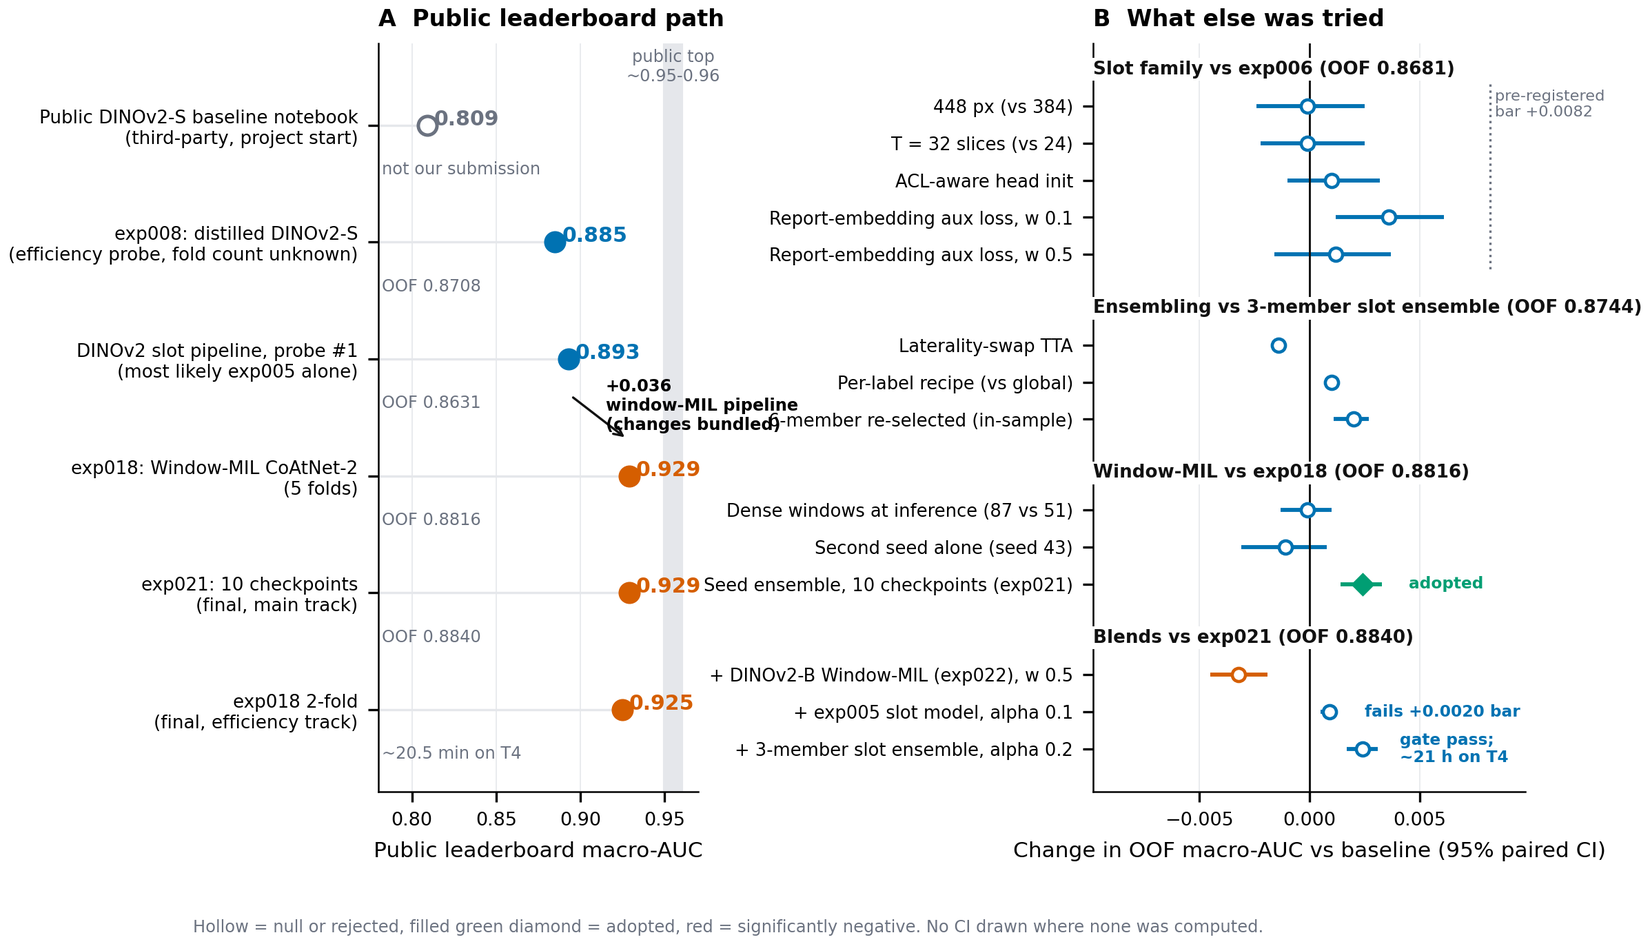
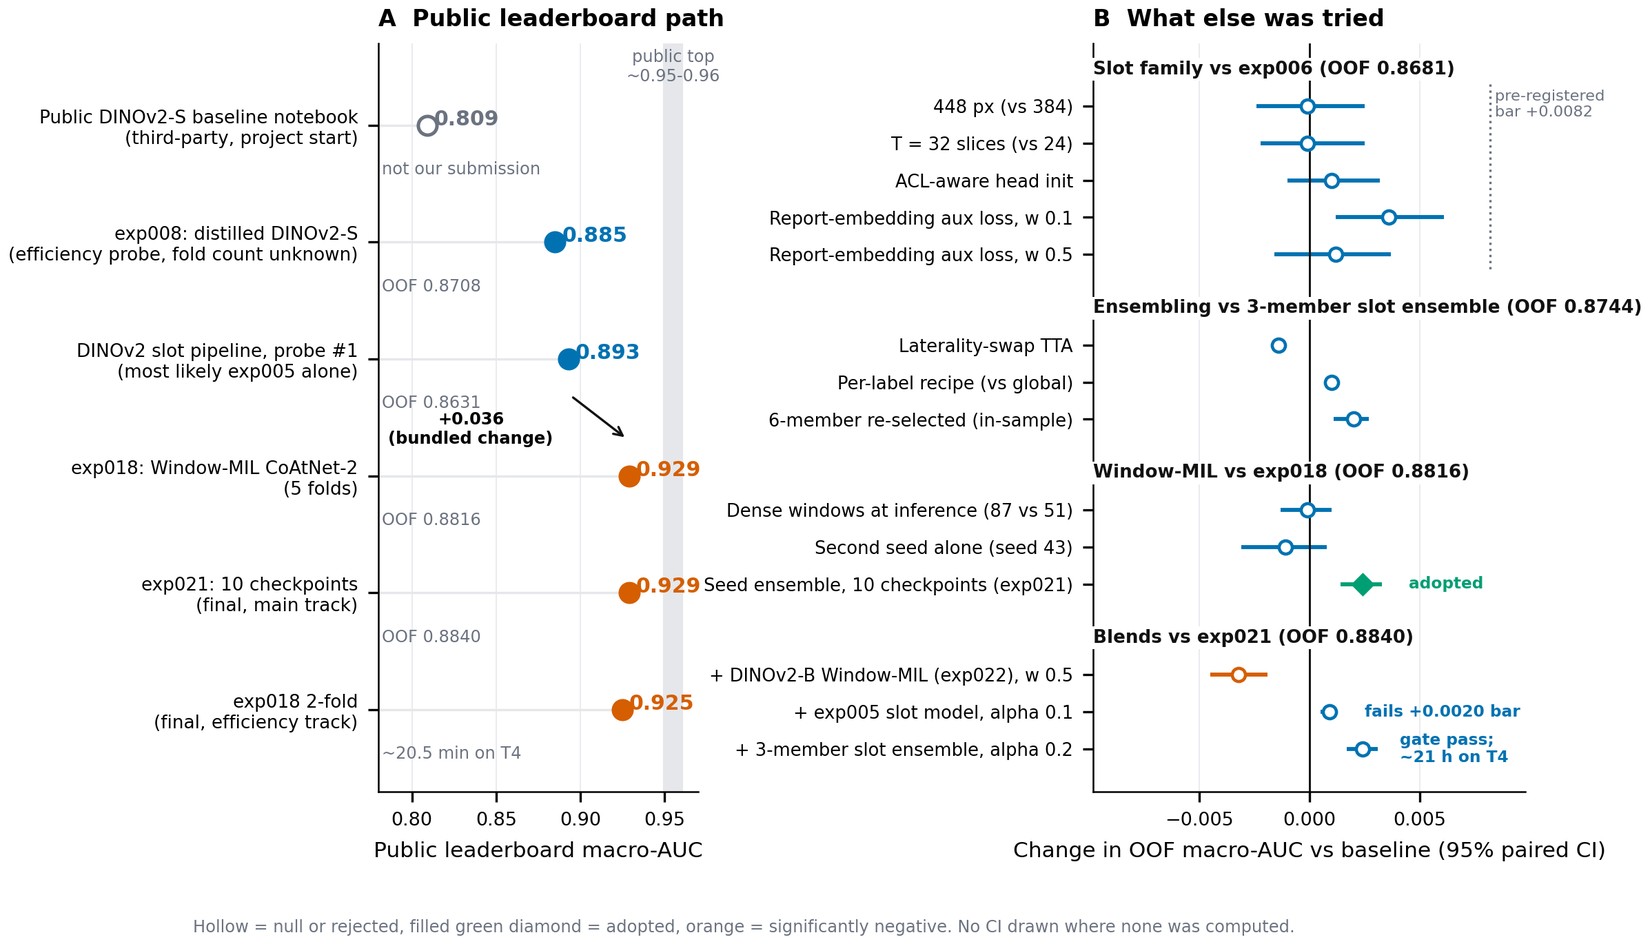
Pre-Oct-15 review fixes: ablation figure annotation/footer, Qiu et al. 2024 reference (Crossref-checked), mine-vs-borrowed on slide 3, 3-row slide 5 + ROC backup slide + milestones line, notes re-timed to 525 words, extraction-mismatch limitation

Changed region(s): [[0.4327, 0.981, 0.7728, 1.0], [0.3709, 0.3985, 0.4946, 0.4599], [0.2473, 0.4292, 0.34, 0.4905]]

diff --git a/docs/report/main.tex b/docs/report/main.tex
@@ -84,8 +84,10 @@ CoAtNet~\cite{dai2021coatnet} via timm~\cite{wightman2019timm}.}
 \item \nt{The window-MIL design follows a public Kaggle kernel~\cite{dread2026kernel}; say so plainly (re-implemented, own
 labels and folds, no third-party weights or labels).}
 \item \nt{LLM tooling: Qwen2.5~\cite{qwen2025}, Llama~3~\cite{llama3}, vLLM~\cite{kwon2023vllm}.}
-\item \todo{add the external published benchmark noted in EXPERIMENTS.md 2026-09-17 (``Qiu et al. 2024, Nat Commun''):
-its title and DOI are not recorded in the repo.}
+\item \nt{Closest prior work: Qiu et al.~\cite{qiu2024coplane} (Nature Communications 2024) learn co-plane attention across
+MRI sequences for the same twelve knee abnormalities. State the difference plainly: their supervision and data versus
+this challenge's 58 image-review labels plus report-derived labels; compare per-finding AUCs only as context, not as a
+like-for-like benchmark (the EXPERIMENTS.md 2026-09-17 entry has the per-label comparison that was made).}
 \end{itemize}
 \end{notes}
 
@@ -353,6 +355,11 @@ silently wrote label priors; tests must assert on prediction content, not row co
 by a clinician; the 0.893 attribution to exp005 is an inference.}
 \item \nt{Label-engine calibration used the same 58 studies that report gold-58 AUC (leave-one-out for the labeler; the image
 models never trained on them), so the labeler's own agreement numbers are optimistic.}
+\item \nt{Reproduction check, one sentence: re-running the 10 exp021 checkpoints through the deployed inference path on the
+gold-58 studies reproduces the stored predictions to within 0.005 for 56 of 58 studies, but two studies differ by up to
+0.21 (MCL, ACL). The suspected cause is a difference between the side-resolution rule used in training (validated report
+side) and at deployment (DICOM tag, then geometry); this is unconfirmed. The effect on macro-AUC is negligible (0.9104
+vs 0.9111).}  % SRC: scripts/fig_attention.py sanity line; docs/report/NUMBERS.md
 \item \nt{No external data; single-person project; Kaggle hardware only for inference.}
 \end{itemize}
 \end{notes}

diff --git a/scripts/fig_ablation.py b/scripts/fig_ablation.py
@@ -91,8 +91,9 @@ def panel_a(ax) -> None:
     ax.set_title("A  Public leaderboard path", loc="left", fontweight="bold")
     ax.annotate("", xy=(0.929, ys[3] + 0.3), xytext=(0.893, ys[2] - 0.3),
                 arrowprops=dict(arrowstyle="->", color=fc.C["black"], lw=0.8))
-    ax.text(0.915, (ys[2] + ys[3]) / 2 + 0.1, "+0.036\nwindow-MIL pipeline\n(changes bundled)", fontsize=5.8,
-            va="center", ha="left", fontweight="bold")
+    # Kept inside panel A's axes, to the LEFT of the arrow (the old right-hand placement ran into panel B's labels).
+    ax.text(0.835, (ys[2] + ys[3]) / 2 - 0.25, "+0.036\n(bundled change)", fontsize=5.8, va="center", ha="center",
+            fontweight="bold")
     ax.grid(axis="x", color=fc.C["light"], lw=0.4)
     ax.set_axisbelow(True)
 
@@ -135,7 +136,7 @@ def main() -> None:
     gs = fig.add_gridspec(1, 2, width_ratios=[1.0, 1.35], wspace=1.05)
     panel_a(fig.add_subplot(gs[0]))
     panel_b(fig.add_subplot(gs[1]))
-    fig.text(0.0, -0.035, "Hollow = null or rejected, filled green diamond = adopted, red = significantly negative. "
+    fig.text(0.0, -0.035, "Hollow = null or rejected, filled green diamond = adopted, orange = significantly negative. "
              "No CI drawn where none was computed.",
              fontsize=5.8, color=fc.C["grey"], ha="left")
     fc.save(fig, "ablation_path_and_nulls")

diff --git a/docs/CV_PROGRESS_PRESENTATION.md b/docs/CV_PROGRESS_PRESENTATION.md
@@ -1,10 +1,11 @@
 # CV course progress presentation — Oct 15, 5 minutes
 
-Project: RSNA Knee Abnormality Detection (Kaggle 2026): 12 findings from knee MRI, scored by macro-AUC.
-**Five slides, ~4:35 of speaking** (speaker notes below total ~620 words; at 135 words/min that is 4.6 min,
-leaving ~25 s of slack). Every number is a logged measurement from `docs/EXPERIMENTS.md`; the section for each
+Project: RSNA Knee Abnormality Detection (Kaggle 2026): 12 findings from knee MRI, scored by macro-AUC. Solo project.
+**Five slides plus one backup, ~3:55 of speaking** (speaker notes total 525 words: 3.9 min at 135 words/min,
+4.2 min at 125 wpm, so under 4:30 either way). Every number is a logged measurement from `docs/EXPERIMENTS.md`; the section for each
 is in the "Number sources" table at the end. Figures are in `docs/figures/` (PNG for slides, PDF for the report).
-Rewritten 2026-10-10 around the final figures and the corrected 0.893 attribution.
+Revised 2026-10-11 after review: explicit mine-vs-borrowed line, lighter slide 5, ROC grid moved to a backup slide,
+closing milestones line, notes re-timed.
 
 Status when presenting: modeling is closed and the freeze is Oct 15. **One model family (exp018's CoAtNet-2
 Window-MIL) supplies both final picks:** accuracy = exp021, 10 checkpoints (public 0.929); efficiency = exp018 on
@@ -25,13 +26,14 @@ Window-MIL) supplies both final picks:** accuracy = exp021, 10 checkpoints (publ
 
 | # | Slide | Time | Figure |
 |---|---|---|---|
-| 1 | The problem: strong images, weak labels, and the label engine | 0:00-0:50 | none (build a 3-bar graphic: 4,407 / 58 / 0) |
-| 2 | The path and the plateau | 0:50-1:45 | `ablation_path_and_nulls.png` |
-| 3 | Diagnosis and the formulation change | 1:45-2:45 | `formulation_before_after.png` |
-| 4 | What the model looks at | 2:45-3:35 | `attention_windows_gold58_slide.png` |
-| 5 | Results and lessons | 3:35-4:35 | table + `roc_gold58_exp018_exp021.png` |
+| 1 | The problem: strong images, weak labels, and the label engine | 0:00-0:45 | none (build a 3-bar graphic: 4,407 / 58 / 0) |
+| 2 | The path and the plateau | 0:45-1:30 | `ablation_path_and_nulls.png` |
+| 3 | Diagnosis, the formulation change, and what is mine vs borrowed | 1:30-2:25 | `formulation_before_after.png` |
+| 4 | What the model looks at | 2:25-3:10 | `attention_windows_gold58_slide.png` |
+| 5 | Results, lessons, and what is next | 3:10-4:05 | 3-row table (no figure) |
+| B1 | Backup (not presented): per-label ROC | on request | `roc_gold58_exp018_exp021.png` |
 
-## Slide 1 — The problem: strong images, weak labels (0:00-0:50)
+## Slide 1 — The problem: strong images, weak labels (0:00-0:45)
 
 **On the slide**
 - Input: a knee MRI study = 3-14 series (sagittal / coronal / axial, fat-suppressed or not). Output: 12
@@ -42,15 +44,15 @@ Window-MIL) supplies both final picks:** accuracy = exp021, 10 checkpoints (publ
   thresholds -> calibrated on the 58 (leave-one-out) -> one noisy-student round -> `v3` labels. A second round
   regressed, so I stopped.
 
-**Say (~115 words)**
-"I predict twelve knee-MRI findings, scored by macro AUC. The catch is the labels. Of 4,407 training studies, only
-58 have expert image-review labels. Every study has a radiology report, in a dozen languages, but there are no
-reports at test time, and the reports agree with the experts only about 82% of the time, because they over-call
-mild disease. So step one was a label engine. Two open language models read each report against a rubric of the
-experts' thresholds. I calibrate on the 58 real labels, let the image model clean the labels once, and stop there,
-because a second round made things worse. Better labels alone were worth about plus 0.014 AUC."
+**Say (~110 words)**
+"I predict twelve knee-MRI findings, scored by macro AUC. The catch is the labels: of 4,407 training studies, only
+58 have expert image-review labels. Every study has a radiology report, but there are none at test time, and the
+reports agree with the experts only about 82% of the time, because they over-call mild disease. So I built a label
+engine. Two open language models read each report against a rubric of the experts' thresholds. I calibrate on the
+58 real labels, let the image model clean the labels once, and stop there, because a second round made things
+worse. Better labels alone were worth about plus 0.014 AUC."
 
-## Slide 2 — The path and the plateau (0:50-1:45)
+## Slide 2 — The path and the plateau (0:45-1:30)
 
 **Figure:** `docs/figures/ablation_path_and_nulls.png` (panel A the leaderboard path, panel B the tested changes).
 
@@ -61,16 +63,14 @@ because a second round made things worse. Better labels alone were worth about p
   report-text auxiliary loss all sit inside noise (or below the pre-registered +0.0082 bar). Hollow = null.
 - Early gains that did work (OOF): ViT-S -> ViT-B +0.005, v3 labels +0.014, ensembling +0.006.
 
-**Say (~120 words)**
-"My first image model summarizes each series into one token and then mixes six slots. It scored 0.893 on the
-public leaderboard. One correction: that notebook picks its configuration from a time budget, and on Kaggle's T4
-GPUs the three-model ensemble would take about 21 hours, so it almost certainly ran just its smallest model. The
-0.893 is most likely one ViT-S, though I can't confirm that. Then I tried every lever I had: higher resolution,
-more slices, a better head, a report-text loss, bigger ensembles. I set the bar in advance and used the same folds
-and bootstrap noise. Nothing cleared it. From that I concluded the labels were the ceiling. That conclusion
-turned out to be wrong."
+**Say (~95 words)**
+"My first image model squeezes each series into one token, then mixes six slots. Its public score was 0.893. One
+correction: that notebook picks its configuration from a time budget, and on Kaggle's GPUs the three-model ensemble
+would need about 21 hours, so it almost certainly ran only its smallest model, one ViT-S. I can't confirm that.
+Then I tried every lever I had: resolution, more slices, a better head, a report-text loss, bigger ensembles, each
+against a bar I set in advance. Nothing cleared it. So I concluded the labels were the ceiling. That was wrong."
 
-## Slide 3 — Diagnosis, and the formulation change (1:45-2:45)
+## Slide 3 — Diagnosis, the formulation change, and what is mine vs borrowed (1:30-2:25)
 
 **Figure:** `docs/figures/formulation_before_after.png`.
 
@@ -81,19 +81,21 @@ turned out to be wrong."
   medial-lateral, and 34% of studies (1,491) had no side normalisation. A geometric rule resolved 99.4% of them
   (99% agreement with validated sides).
 - exp018: 140 mm FOV -> windows of 3 adjacent slices -> fully fine-tuned CoAtNet-2 -> **per-finding attention
-  over all windows**. My labels, my folds, a pre-registered kill rule. **Public 0.929.**
+  over all windows**. A pre-registered kill rule. **Public 0.929.**
+- **What's mine vs borrowed (boxed line on the slide):** *Borrowed:* the window-MIL design, from a public Kaggle
+  kernel (cited on the slide). *Mine:* the label engine, the labels, the folds, the laterality fix, the
+  re-implementation, and all the training. *No third-party weights or labels.*
 - Caveat on the slide: four things changed together; none is isolated.
 
-**Say (~125 words)**
-"Instead of another ablation, I looked outside my own pipeline. The DINOv2 family was stuck at about 0.89
-everywhere, including in a public 20-model ensemble, and one very different design wasn't. Mine compresses every
-series to a single vector before any finding is considered. The other keeps every window of three adjacent slices
-and lets each finding attend over all of them. I rebuilt it on my own labels and folds with a pre-registered kill
-rule, and fixed a laterality bug I found along the way. It scored 0.929. I changed four things at once, so I can't
-tell you which one mattered. Putting a DINOv2 backbone inside the same window pipeline scored lower, which
-suggests the pipeline matters more than the backbone."
+**Say (~110 words)**
+"Instead of another ablation, I looked outside my own pipeline. The DINOv2 family stalled near 0.89 everywhere,
+even in a public twenty-model ensemble, and one very different design didn't. Mine compresses each series to one
+vector; the other keeps every window of three adjacent slices and lets each finding attend over all of them. To be
+clear about what's mine: that window design follows a public notebook, which I cite. The label engine, the labels,
+the folds, the laterality fix, the re-implementation and all the training are mine, with no third-party weights or
+labels. It scored 0.929. I changed four things at once, so I can't say which one mattered."
 
-## Slide 4 — What the model looks at (2:45-3:35)
+## Slide 4 — What the model looks at (2:25-3:10)
 
 **Figure:** `docs/figures/attention_windows_gold58_slide.png` (three rows; the full six-row version and the
 all-58-studies slot-share heatmap `attention_by_slot_gold58.png` are for the report and for questions).
@@ -108,44 +110,48 @@ all-58-studies slot-share heatmap `attention_by_slot_gold58.png` are for the rep
   uniform); Baker's puts **45%** on axial (20% uniform); effusion 57% sagittal FS. Attention is broad: the top 4
   windows hold only 22-48% in these examples, and a finding pools over roughly 16-40 effective windows.
 
-**Say (~115 words)**
-"Because each finding pools over windows, I can look at where it looks. These three studies were chosen by a
-rule I fixed before I saw any map: the most confident gold-positive case per finding. So this is a best case,
-not a hit rate. The ACL pools mostly from sagittal fat-suppressed slices, the medial meniscus from coronal, and
-the Baker's cyst from axial, the planes where those findings are usually assessed. Across all 58 gold studies
-the ACL puts 62% of its attention on sagittal fat-suppressed slices, against 30% if it were uniform. This shows
-where the pooling draws from. It's not proof of localization, and no radiologist has checked these windows."
+**Say (~100 words)**
+"Because each finding pools over windows, I can see where it looks. I chose these three studies by a rule fixed
+before I viewed any map: the most confident gold-positive case per finding. So this is a best case, not a hit rate.
+The ACL pools mostly from sagittal fat-suppressed slices, the medial meniscus from coronal, the Baker's cyst from
+axial. Across all 58 gold studies, the ACL puts 62% of its attention on sagittal fat-suppressed slices, against 30%
+if it were uniform. That shows where the pooling draws from. It's not proof of localization, and no radiologist has
+checked these windows."
 
-## Slide 5 — Results and lessons (3:35-4:35)
+## Slide 5 — Results, lessons, and what is next (3:10-4:05)
 
-**Figure:** `docs/figures/roc_gold58_exp018_exp021.png` (right half of the slide; if it is too dense, move it to a
-backup and keep the table + lessons). The OOF version is `roc_oof_exp018_exp021.png`.
+No figure: the per-label ROC grid is on backup slide B1.
 
 | | OOF | Gold-58 (fold-ens.) | Public LB | Runtime, Kaggle 2 x T4 |
 |---|---|---|---|---|
-| DINOv2 slot pipeline (most likely exp005 alone, T4 fallback) | 0.8631 | 0.8903 | 0.893 | 3 members ~21 h measured; exp005 alone ~3 h (projected by cost ratio) |
-| DINOv2 distilled, efficiency probe (fold count unknown) | 0.8708 | 0.888 | 0.885 | minutes |
-| exp018, 5 folds | 0.8816 | 0.9091 | 0.929 | ~53 min |
+| DINOv2 slot pipeline (most likely exp005 alone, T4 fallback) | 0.8631 | 0.8903 | 0.893 | 3 members ~21 h measured |
 | **exp021, 10 checkpoints (final, accuracy)** | **0.8840** | **0.9111** [0.883, 0.936] | **0.929** | ~100 min |
 | **exp018, 2 folds (final, efficiency)** | n/a | 0.9078 | **0.925** | **~20.5 min** (score -2.018 vs -1.966 for 5 folds) |
 
-- The leaderboard beat OOF every time: by about **+0.030** for the slot pipeline (corrected), **+0.047** for
-  exp018. OOF is scored against noisy report labels; ACL is the clearest case (OOF 0.857, gold-58 0.979).
-- Weakest on gold-58: PF OA 0.824, lateral OA 0.828, lateral meniscus 0.834. Strongest: medial meniscus and
-  Baker's 0.986, ACL 0.979, effusion 0.978. (n = 58, wide intervals.)
+- The leaderboard beat OOF every time (about **+0.030** for the slot pipeline, corrected; **+0.045** for exp021),
+  because OOF is scored against noisy report labels. Gold-58 is n = 58, so read it as a sketch.
 - Lessons: (1) a run of null ablations shows a model *family* is saturated, not where the ceiling is; (2) measure
-  runtime on the target hardware, because my borrowed speed factors were off by 3.6x (CoAtNet) and ~13x (DINOv2);
-  (3) **a runtime fallback can silently change which model is scored**, so log the rung that was chosen.
+  runtime on the target hardware: my borrowed speed factors were off by 3.6x (CoAtNet) and ~13x (DINOv2);
+  (3) **a runtime fallback can silently change which model is scored**: log the rung that was chosen.
+- **Next (closing line): private leaderboard Oct 22 -> demo Nov 23-27 -> final report Dec 5.**
 
-**Say (~150 words)**
-"One model family does both jobs: ten checkpoints for accuracy, public 0.929, and two folds for speed, 0.925 in
-about twenty minutes. The leaderboard beat my validation score every time, because I validate against noisy
-report labels. The ACL is the clearest case: 0.857 out-of-fold but 0.979 on the 58 real labels. Those 58 are
-a tiny set, so read the per-label curves as a sketch. Three lessons. First, six null results told me my model
-family was saturated, not that the problem was. Second, measure runtime on the real hardware: I projected fifteen
-minutes and got fifty-three, and a speed factor for the DINOv2 models was off by thirteen times. Third, a runtime
-fallback can silently change which model you're scoring, which is why my 0.893 is probably a single small model.
-Log the choice. The final rank is known on October 22; code, weights and a write-up follow."
+**Say (~105 words)**
+"Final picks: ten checkpoints for accuracy, public 0.929, and two folds for speed, 0.925 in about twenty minutes.
+The leaderboard beat my validation score every time, because I validate against noisy report labels. Three lessons.
+One: six null results showed my model family was saturated, not that the problem was. Two: measure runtime on the
+real hardware. I projected fifteen minutes and measured fifty-three. Three: a runtime fallback can silently change
+which model you're scoring, which is why my 0.893 is probably one small model. Log the choice. Next: the private
+leaderboard on October 22, a demo in late November, and the final report on December 5."
+
+## Backup slide B1 — Per-label ROC (not presented; for questions)
+
+**Figure:** `docs/figures/roc_gold58_exp018_exp021.png` (OOF version: `roc_oof_exp018_exp021.png`).
+
+- Gold-58, exp021: strongest medial meniscus and Baker's 0.986, ACL 0.979, effusion 0.978; weakest PF OA 0.824,
+  lateral OA 0.828, lateral meniscus 0.834. (n = 58: wide intervals, printed on the figure.)
+- ACL is the clearest case of noisy proxy labels: OOF 0.857 but gold-58 0.979.
+- Rows cut from slide 5, available if asked: exp018 5 folds (OOF 0.8816, gold-58 0.9091, public 0.929, ~53 min);
+  distilled DINOv2-S efficiency probe (OOF 0.8708, gold-58 0.888, public 0.885; fold count unknown).
 
 ## Likely questions (prep)
 
@@ -153,20 +159,22 @@ Log the choice. The final rank is known on October 22; code, weights and a write
   changed together. The per-label pattern (MCL +0.080, lateral meniscus +0.031 OOF) hints at laterality and the
   wider FOV, but that is a hint, not a result. DINOv2-B inside the window pipeline (exp022) got OOF 0.8709 vs
   0.8816, so the backbone is not the whole story.
+- *How much of this is yours?* The window-MIL design follows a public kernel (cited; reimplemented here). The label
+  engine, labels, folds, laterality fix, every training run, all ablations, the efficiency work and the evaluation
+  protocol are mine. No third-party weights or labels; only ImageNet/DINOv2 initialisations from timm.
 - *Does the attention show it finds the lesion?* Not shown. It shows which windows each finding pools from, and
   it is broad (a finding pools over ~16-40 effective windows). The six studies were chosen by confidence, not
   by whether the map looked right, but no radiologist has reviewed them.
 - *Why is ACL's OOF so low but its gold-58 so high?* The OOF labels come from reports, which over-call mild ACL
   findings; on the 58 image-review labels the same model scores 0.979. The ACL work stopped for that reason.
 - *Why not train on the 58 labels?* Too few; they calibrate the label engine and validate.
-- *Isn't exp018 a copy of a public notebook?* It is the same design (acknowledged in the write-up),
-  re-implemented and trained on my own labels and folds, with no third-party weights or labels, and epoch
-  selection that never used the gold set (the reference selected on it).
 - *How do you know OOF is not leaking?* Folds are grouped by report cluster, and the leaderboard *beat* OOF
   (leakage would push the other way).
 - *Did you blend with the older model?* The blend never scored: two Kaggle runs hung at teardown. A later offline
   test passed on OOF with the 3-model ensemble but that ensemble needs ~21 h on T4; with the single small model it
   fell below the pre-set bar (+0.0009 vs +0.0020), so it was closed.
+- *Closest prior work?* Qiu et al., Nature Communications 15:7637 (2024), co-plane attention across MRI sequences for
+  twelve knee abnormalities; it is cited in the report's related work.
 
 ## Number sources (all in `docs/EXPERIMENTS.md` unless noted)
 
@@ -179,15 +187,19 @@ Log the choice. The final rank is known on October 22; code, weights and a write
 | Public audit (18 kernels, 0.891 / 0.924); laterality defect (34%, 1,491 studies, 99.4%) | 2026-09-21 audit and exp018 pre-registration entries |
 | exp018 OOF 0.8816, gold-58 0.9091; exp021 OOF 0.8840 (+0.0024 [+0.0014, +0.0033]), gold-58 0.9111 [0.8834, 0.9359] | 2026-09-21 exp018 result; 2026-09-25 exp021 result |
 | exp018 2-fold 0.925, ~20.5 min, efficiency -2.018 vs -1.966 | 2026-09-26 probes #5/#6 and efficiency entries |
+| LB-minus-OOF gaps: +0.030 (slot, corrected), +0.047 (exp018), +0.045 (exp021 = 0.929 - 0.8840) | 2026-10-01 correction; 2026-09-22; computed |
 | exp022 OOF 0.8709 (gate FAIL) | 2026-09-26, section B |
 | exp005 re-gate +0.0009 vs +0.0020 bar | 2026-10-01 re-gate result |
 | Attention shares (62% / 45% / 57%), effective windows | `docs/figures/attention_slot_mass_gold58.csv` (`scripts/fig_attention.py`) |
 | Per-label AUCs (gold-58, OOF) | printed on `roc_gold58_exp018_exp021.png`, `roc_oof_exp018_exp021.png` |
+| Milestones: private LB Oct 22; demo Nov 23-27; report Dec 5 | course schedule, as given |
 
 ## Items to verify before Oct 15
 
 - The exp018/exp021 runtimes were measured on Kaggle's 2 x T4 on 120-150 training studies and extrapolated to
   ~1,300 studies.
-- The attention figures contain real training MRI slices from the competition data. Check the competition's data
-  terms before showing them outside the course (and before the repo is made public).
+- The attention figures contain real training MRI slices from the competition data. Course use is very likely fine;
+  read the competition's data-use terms before the images go into a public Kaggle write-up or GitHub.
 - Whether any private-leaderboard information is published before Oct 15.
+- Team size: the slides say "I" throughout, which assumes a solo project. If there are teammates, the talk needs to
+  say what each did.

diff --git a/docs/report/NUMBERS.md b/docs/report/NUMBERS.md
@@ -66,8 +66,9 @@ except the two flagged rows.
 
 ## Known soft spots to resolve before submission
 
-- The "Qiu et al. 2024, Nat Commun" benchmark has no entry in `refs.bib` (title/DOI never recorded). Add or drop it.
-- All `refs.bib` entries were written from memory: verify each.
+- `refs.bib`: the Qiu et al. 2024 entry was checked against Crossref on 2026-10-11 (DOI 10.1038/s41467-024-51888-4,
+  volume 15, article 7637, nine authors). The other entries were written from memory and have been read through by a
+  reviewer, but check each against the source before submission.
 - The 0.893 -> exp005 attribution is an inference; keep the wording "most likely".
 - The attention-extraction predictions reproduce exp021's stored gold-58 predictions for 56 of 58 studies to < 0.005;
   two studies differ (max 0.21, on MCL/ACL). The likely cause is the deployed side-resolution rule (tag/geometry)
